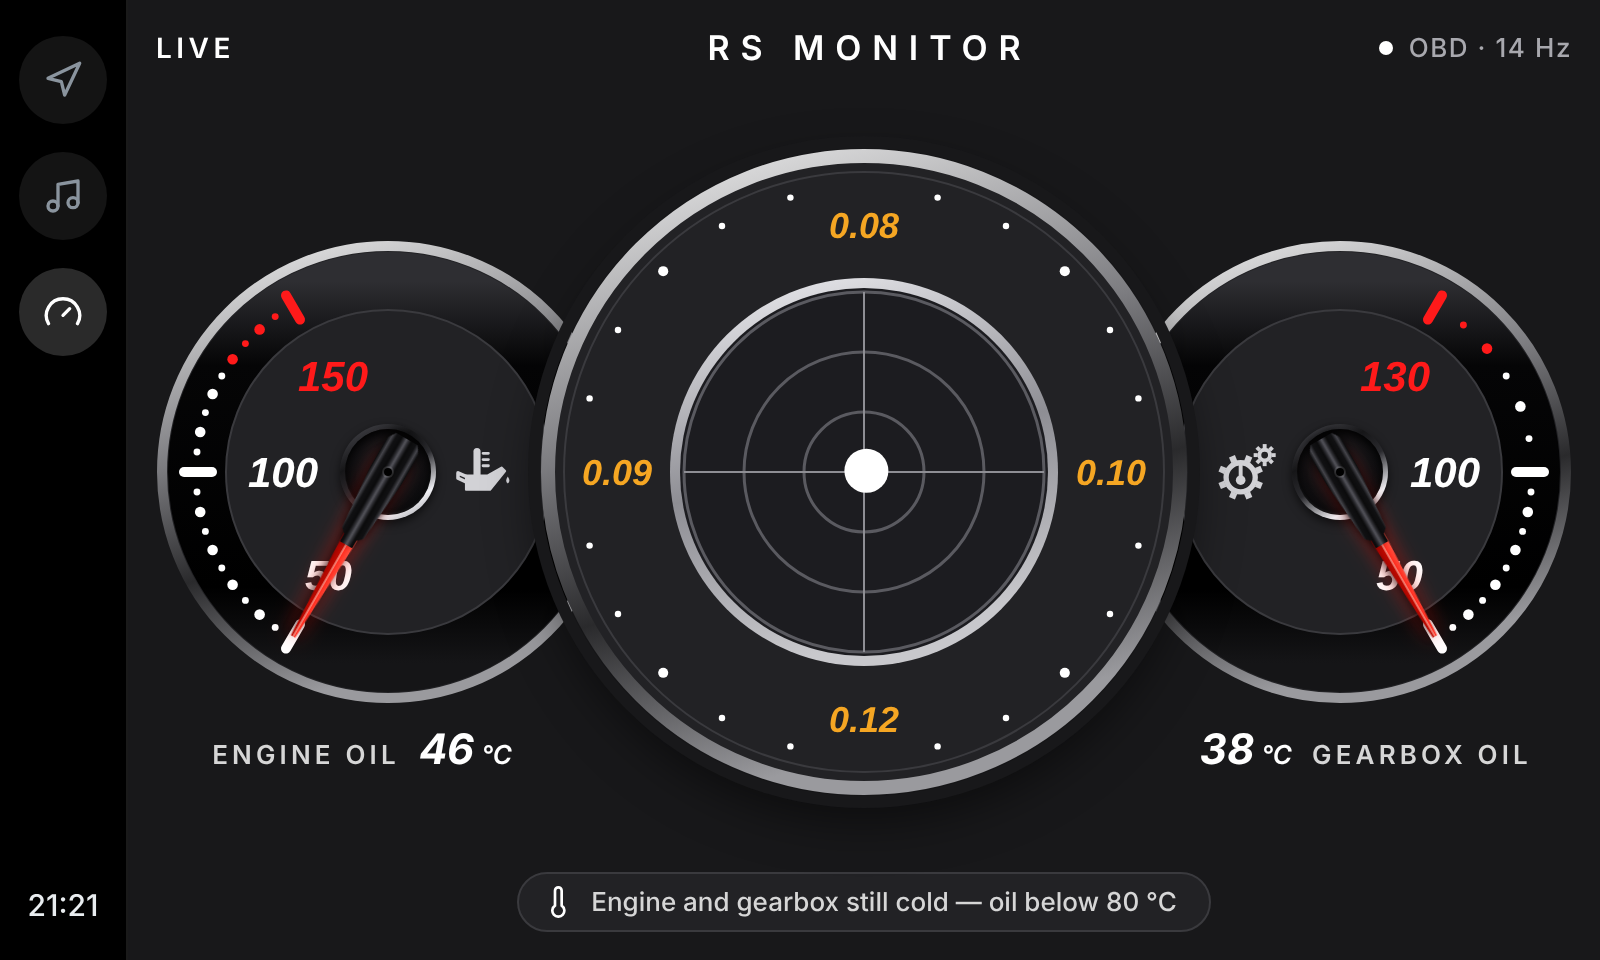
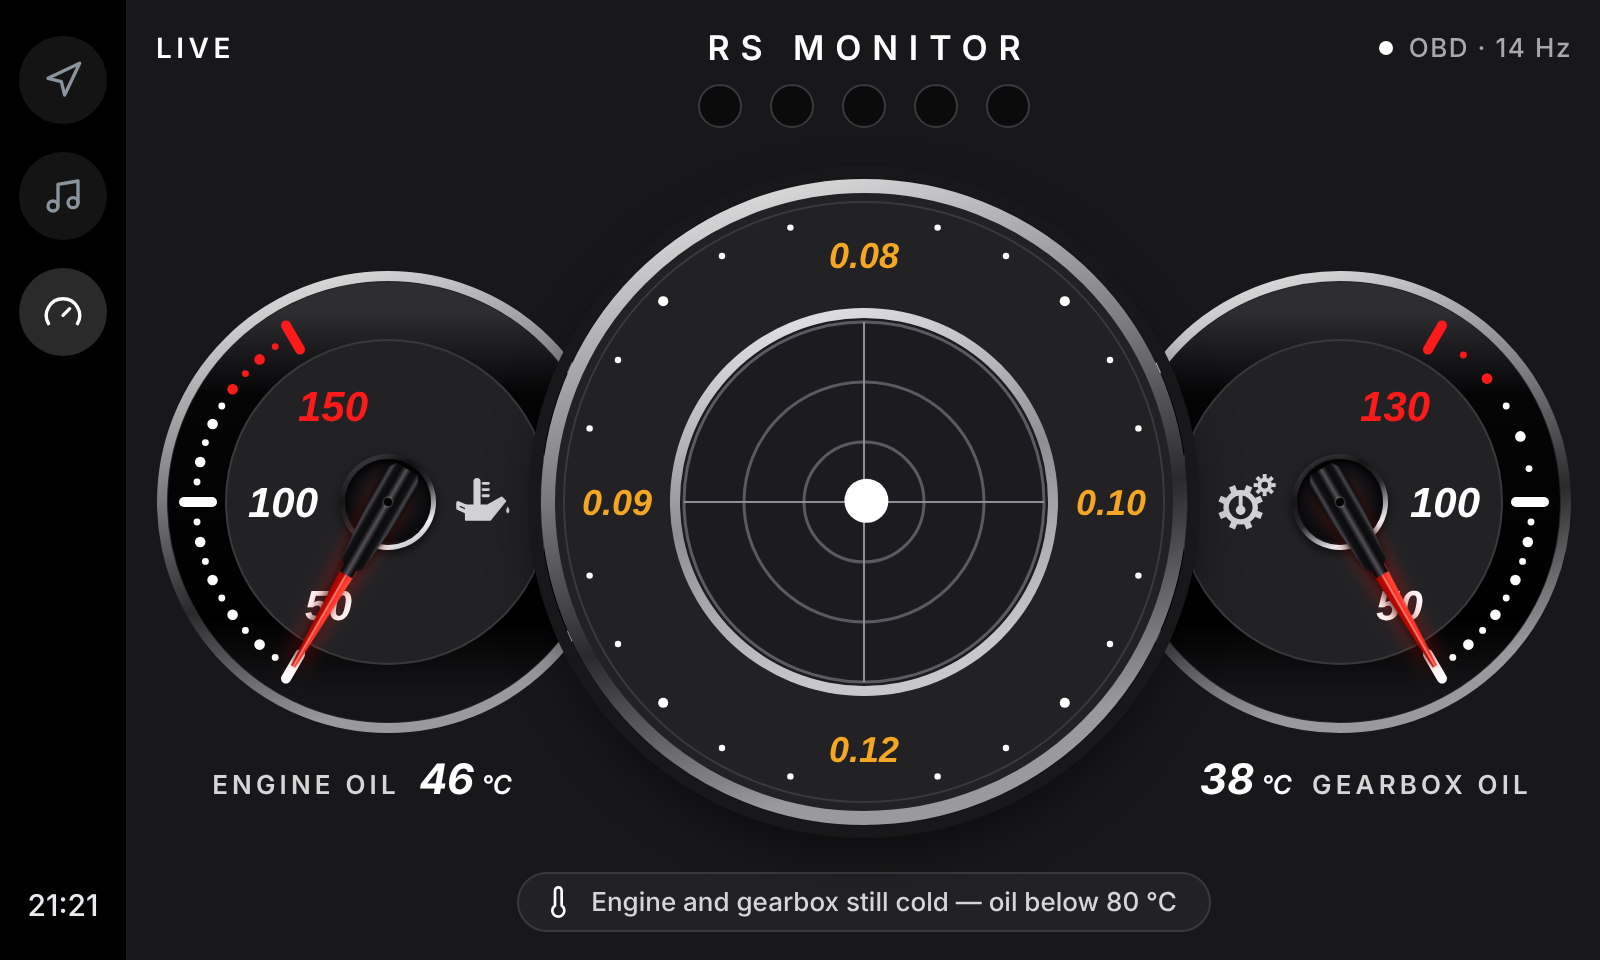
Add a five-stage shift light to the Android Auto screens
Green at 4,000 rpm, yellow at 5,000, 6,000 and 7,000, red at 8,000;
all five flash red from 8,200 rpm. The row sits under the title.
Each screen gains an rpm sample value: cold start 1,500, driving
6,300, hot 8,300. Preview renderer and README updated.

Claude-Session: https://claude.ai/code/session_01JRCqJLUzwoXWWnQcu1ek3X

Changed region(s): [[0.0938, 0.1562, 1.0, 0.875]]

diff --git a/design/Main.dc.html b/design/Main.dc.html
@@ -15,6 +15,8 @@ body{margin:0}
 a{color:#FFFFFF}a:hover{color:#D6D6D6}
 ::selection{background:#FF1A1A;color:#FFFFFF}
 button:focus-visible,a:focus-visible{outline:2px solid #FFFFFF;outline-offset:2px}
+@keyframes rs-shift{0%{opacity:1}50%{opacity:0.12}}
+@media (prefers-reduced-motion: reduce){span[style*="rs-shift"]{animation:none !important}}
 </style>
 </helmet>
 <div style="width: 800px; height: 480px; box-sizing: border-box; display: flex; background: #18181A; color: #FFFFFF; font-family: 'Saira', 'Inter', sans-serif; overflow: hidden">
@@ -40,6 +42,11 @@ button:focus-visible,a:focus-visible{outline:2px solid #FFFFFF;outline-offset:2p
 <span style="width: 7px; height: 7px; border-radius: 4px; background: #FFFFFF"></span>OBD · 14 Hz
 </div>
 </header>
+<div role="img" aria-label="Shift lights" style="height: 26px; flex-shrink: 0; display: flex; align-items: center; justify-content: center; gap: 14px">
+<sc-for list="{{shift}}" as="l" hint-placeholder-count="5">
+<span style="width: 22px; height: 22px; border-radius: 11px; box-sizing: border-box; background: {{l.fill}}; border: 1px solid {{l.edge}}; box-shadow: {{l.glow}}; animation: {{l.anim}}"></span>
+</sc-for>
+</div>
 <div style="flex: 1; display: flex; align-items: center; justify-content: center">
 <div style="display: flex; flex-direction: column; align-items: center; gap: 10px; width: 232px; height: 324px; padding-top: 46px; box-sizing: border-box; flex-shrink: 0;">
 <div style="position: relative; width: 232px; height: 232px; flex-shrink: 0">
@@ -178,17 +185,33 @@ button:focus-visible,a:focus-visible{outline:2px solid #FFFFFF;outline-offset:2p
 </main>
 </div>
 </x-dc>
-<script type="text/x-dc" data-dc-script data-props='{"oilTemp":{"editor":"range","min":40,"max":155,"step":1,"unit":"°C","default":104,"section":"Sample readings"},"gearTemp":{"editor":"range","min":40,"max":135,"step":1,"unit":"°C","default":88,"section":"Sample readings"},"gLat":{"editor":"range","min":-1.5,"max":1.5,"step":0.01,"default":0.62,"section":"Sample readings"},"gLon":{"editor":"range","min":-1.5,"max":1.5,"step":0.01,"default":-0.28,"section":"Sample readings"},"$preview":{"width":800,"height":480}}'>
+<script type="text/x-dc" data-dc-script data-props='{"rpm":{"editor":"range","min":800,"max":8600,"step":50,"unit":"rpm","default":6300,"section":"Sample readings"},"oilTemp":{"editor":"range","min":40,"max":155,"step":1,"unit":"°C","default":104,"section":"Sample readings"},"gearTemp":{"editor":"range","min":40,"max":135,"step":1,"unit":"°C","default":88,"section":"Sample readings"},"gLat":{"editor":"range","min":-1.5,"max":1.5,"step":0.01,"default":0.62,"section":"Sample readings"},"gLon":{"editor":"range","min":-1.5,"max":1.5,"step":0.01,"default":-0.28,"section":"Sample readings"},"$preview":{"width":800,"height":480}}'>
 class Component extends DCLogic {
   needle(v, lo, hi, red, side) {
     var c = Math.max(lo, Math.min(hi, v));
     var t = c <= 100 ? 150 - 60 * (c - lo) / (100 - lo) : 90 - 60 * (c - 100) / (hi - 100);
     return { angle: (side * t).toFixed(1), value: Math.round(v), color: v >= red ? '#FF1A1A' : '#FFFFFF' };
   }
+  shift(rpm) {
+    var on = [4000, 5000, 6000, 7000, 8000];
+    var col = ['#2FD158', '#FFD60A', '#FFD60A', '#FFD60A', '#FF1A1A'];
+    var flash = rpm >= 8200;
+    return on.map(function (at, i) {
+      var lit = flash || rpm >= at;
+      var c = flash ? '#FF1A1A' : col[i];
+      return {
+        fill: lit ? c : '#0B0B0C',
+        edge: lit ? c : '#3A3A3E',
+        glow: lit ? '0 0 10px 1px ' + c : 'none',
+        anim: flash ? 'rs-shift 0.25s steps(1, end) infinite' : 'none'
+      };
+    });
+  }
   renderVals() {
     var lat = this.props.gLat ?? 0.62;
     var lon = this.props.gLon ?? -0.28;
     return {
+      shift: this.shift(this.props.rpm ?? 6300),
       oil: this.needle(this.props.oilTemp ?? 104, 50, 150, 130, -1),
       gear: this.needle(this.props.gearTemp ?? 88, 50, 130, 120, 1),
       g: { x: (162.0 + lat * 60).toFixed(1), y: (162.0 - lon * 60).toFixed(1) }

diff --git a/design/Hot.dc.html b/design/Hot.dc.html
@@ -15,6 +15,8 @@ body{margin:0}
 a{color:#FFFFFF}a:hover{color:#D6D6D6}
 ::selection{background:#FF1A1A;color:#FFFFFF}
 button:focus-visible,a:focus-visible{outline:2px solid #FFFFFF;outline-offset:2px}
+@keyframes rs-shift{0%{opacity:1}50%{opacity:0.12}}
+@media (prefers-reduced-motion: reduce){span[style*="rs-shift"]{animation:none !important}}
 </style>
 </helmet>
 <div style="width: 800px; height: 480px; box-sizing: border-box; display: flex; background: #18181A; color: #FFFFFF; font-family: 'Saira', 'Inter', sans-serif; overflow: hidden">
@@ -40,6 +42,11 @@ button:focus-visible,a:focus-visible{outline:2px solid #FFFFFF;outline-offset:2p
 <span style="width: 7px; height: 7px; border-radius: 4px; background: #FFFFFF"></span>OBD · 14 Hz
 </div>
 </header>
+<div role="img" aria-label="Shift lights" style="height: 26px; flex-shrink: 0; display: flex; align-items: center; justify-content: center; gap: 14px">
+<sc-for list="{{shift}}" as="l" hint-placeholder-count="5">
+<span style="width: 22px; height: 22px; border-radius: 11px; box-sizing: border-box; background: {{l.fill}}; border: 1px solid {{l.edge}}; box-shadow: {{l.glow}}; animation: {{l.anim}}"></span>
+</sc-for>
+</div>
 <div style="flex: 1; display: flex; align-items: center; justify-content: center">
 <div style="display: flex; flex-direction: column; align-items: center; gap: 10px; width: 232px; height: 324px; padding-top: 46px; box-sizing: border-box; flex-shrink: 0;">
 <div style="position: relative; width: 232px; height: 232px; flex-shrink: 0">
@@ -181,17 +188,33 @@ Engine and gearbox oil hot — above 130 °C and 120 °C
 </main>
 </div>
 </x-dc>
-<script type="text/x-dc" data-dc-script data-props='{"oilTemp":{"editor":"range","min":40,"max":155,"step":1,"unit":"°C","default":141,"section":"Sample readings"},"gearTemp":{"editor":"range","min":40,"max":135,"step":1,"unit":"°C","default":126,"section":"Sample readings"},"gLat":{"editor":"range","min":-1.5,"max":1.5,"step":0.01,"default":-0.55,"section":"Sample readings"},"gLon":{"editor":"range","min":-1.5,"max":1.5,"step":0.01,"default":0.2,"section":"Sample readings"},"$preview":{"width":800,"height":480}}'>
+<script type="text/x-dc" data-dc-script data-props='{"rpm":{"editor":"range","min":800,"max":8600,"step":50,"unit":"rpm","default":8300,"section":"Sample readings"},"oilTemp":{"editor":"range","min":40,"max":155,"step":1,"unit":"°C","default":141,"section":"Sample readings"},"gearTemp":{"editor":"range","min":40,"max":135,"step":1,"unit":"°C","default":126,"section":"Sample readings"},"gLat":{"editor":"range","min":-1.5,"max":1.5,"step":0.01,"default":-0.55,"section":"Sample readings"},"gLon":{"editor":"range","min":-1.5,"max":1.5,"step":0.01,"default":0.2,"section":"Sample readings"},"$preview":{"width":800,"height":480}}'>
 class Component extends DCLogic {
   needle(v, lo, hi, red, side) {
     var c = Math.max(lo, Math.min(hi, v));
     var t = c <= 100 ? 150 - 60 * (c - lo) / (100 - lo) : 90 - 60 * (c - 100) / (hi - 100);
     return { angle: (side * t).toFixed(1), value: Math.round(v), color: v >= red ? '#FF1A1A' : '#FFFFFF' };
   }
+  shift(rpm) {
+    var on = [4000, 5000, 6000, 7000, 8000];
+    var col = ['#2FD158', '#FFD60A', '#FFD60A', '#FFD60A', '#FF1A1A'];
+    var flash = rpm >= 8200;
+    return on.map(function (at, i) {
+      var lit = flash || rpm >= at;
+      var c = flash ? '#FF1A1A' : col[i];
+      return {
+        fill: lit ? c : '#0B0B0C',
+        edge: lit ? c : '#3A3A3E',
+        glow: lit ? '0 0 10px 1px ' + c : 'none',
+        anim: flash ? 'rs-shift 0.25s steps(1, end) infinite' : 'none'
+      };
+    });
+  }
   renderVals() {
     var lat = this.props.gLat ?? -0.55;
     var lon = this.props.gLon ?? 0.2;
     return {
+      shift: this.shift(this.props.rpm ?? 8300),
       oil: this.needle(this.props.oilTemp ?? 141, 50, 150, 130, -1),
       gear: this.needle(this.props.gearTemp ?? 126, 50, 130, 120, 1),
       g: { x: (162.0 + lat * 60).toFixed(1), y: (162.0 - lon * 60).toFixed(1) }

diff --git a/design/Warmup.dc.html b/design/Warmup.dc.html
@@ -15,6 +15,8 @@ body{margin:0}
 a{color:#FFFFFF}a:hover{color:#D6D6D6}
 ::selection{background:#FF1A1A;color:#FFFFFF}
 button:focus-visible,a:focus-visible{outline:2px solid #FFFFFF;outline-offset:2px}
+@keyframes rs-shift{0%{opacity:1}50%{opacity:0.12}}
+@media (prefers-reduced-motion: reduce){span[style*="rs-shift"]{animation:none !important}}
 </style>
 </helmet>
 <div style="width: 800px; height: 480px; box-sizing: border-box; display: flex; background: #18181A; color: #FFFFFF; font-family: 'Saira', 'Inter', sans-serif; overflow: hidden">
@@ -40,6 +42,11 @@ button:focus-visible,a:focus-visible{outline:2px solid #FFFFFF;outline-offset:2p
 <span style="width: 7px; height: 7px; border-radius: 4px; background: #FFFFFF"></span>OBD · 14 Hz
 </div>
 </header>
+<div role="img" aria-label="Shift lights" style="height: 26px; flex-shrink: 0; display: flex; align-items: center; justify-content: center; gap: 14px">
+<sc-for list="{{shift}}" as="l" hint-placeholder-count="5">
+<span style="width: 22px; height: 22px; border-radius: 11px; box-sizing: border-box; background: {{l.fill}}; border: 1px solid {{l.edge}}; box-shadow: {{l.glow}}; animation: {{l.anim}}"></span>
+</sc-for>
+</div>
 <div style="flex: 1; display: flex; align-items: center; justify-content: center">
 <div style="display: flex; flex-direction: column; align-items: center; gap: 10px; width: 232px; height: 324px; padding-top: 46px; box-sizing: border-box; flex-shrink: 0;">
 <div style="position: relative; width: 232px; height: 232px; flex-shrink: 0">
@@ -181,17 +188,33 @@ Engine and gearbox still cold — oil below 80 °C
 </main>
 </div>
 </x-dc>
-<script type="text/x-dc" data-dc-script data-props='{"oilTemp":{"editor":"range","min":40,"max":155,"step":1,"unit":"°C","default":46,"section":"Sample readings"},"gearTemp":{"editor":"range","min":40,"max":135,"step":1,"unit":"°C","default":38,"section":"Sample readings"},"gLat":{"editor":"range","min":-1.5,"max":1.5,"step":0.01,"default":0.02,"section":"Sample readings"},"gLon":{"editor":"range","min":-1.5,"max":1.5,"step":0.01,"default":0.01,"section":"Sample readings"},"$preview":{"width":800,"height":480}}'>
+<script type="text/x-dc" data-dc-script data-props='{"rpm":{"editor":"range","min":800,"max":8600,"step":50,"unit":"rpm","default":1500,"section":"Sample readings"},"oilTemp":{"editor":"range","min":40,"max":155,"step":1,"unit":"°C","default":46,"section":"Sample readings"},"gearTemp":{"editor":"range","min":40,"max":135,"step":1,"unit":"°C","default":38,"section":"Sample readings"},"gLat":{"editor":"range","min":-1.5,"max":1.5,"step":0.01,"default":0.02,"section":"Sample readings"},"gLon":{"editor":"range","min":-1.5,"max":1.5,"step":0.01,"default":0.01,"section":"Sample readings"},"$preview":{"width":800,"height":480}}'>
 class Component extends DCLogic {
   needle(v, lo, hi, red, side) {
     var c = Math.max(lo, Math.min(hi, v));
     var t = c <= 100 ? 150 - 60 * (c - lo) / (100 - lo) : 90 - 60 * (c - 100) / (hi - 100);
     return { angle: (side * t).toFixed(1), value: Math.round(v), color: v >= red ? '#FF1A1A' : '#FFFFFF' };
   }
+  shift(rpm) {
+    var on = [4000, 5000, 6000, 7000, 8000];
+    var col = ['#2FD158', '#FFD60A', '#FFD60A', '#FFD60A', '#FF1A1A'];
+    var flash = rpm >= 8200;
+    return on.map(function (at, i) {
+      var lit = flash || rpm >= at;
+      var c = flash ? '#FF1A1A' : col[i];
+      return {
+        fill: lit ? c : '#0B0B0C',
+        edge: lit ? c : '#3A3A3E',
+        glow: lit ? '0 0 10px 1px ' + c : 'none',
+        anim: flash ? 'rs-shift 0.25s steps(1, end) infinite' : 'none'
+      };
+    });
+  }
   renderVals() {
     var lat = this.props.gLat ?? 0.02;
     var lon = this.props.gLon ?? 0.01;
     return {
+      shift: this.shift(this.props.rpm ?? 1500),
       oil: this.needle(this.props.oilTemp ?? 46, 50, 150, 130, -1),
       gear: this.needle(this.props.gearTemp ?? 38, 50, 130, 120, 1),
       g: { x: (162.0 + lat * 60).toFixed(1), y: (162.0 - lon * 60).toFixed(1) }

diff --git a/tools/gen_gauges.py b/tools/gen_gauges.py
@@ -18,6 +18,12 @@ INK3 = "#A8A8AE"    # secondary text
 HOT = "#FF1A1A"     # hot zone, hot readout, G trace
 PEAK = "#F5A623"    # G-meter peak numbers
 ICON = "#D2D2D6"
+SOCKET = "#0B0B0C"  # unlit shift light
+SHIFT_GREEN = "#2FD158"
+SHIFT_YELLOW = "#FFD60A"
+# shift lights: rpm at which each of the five comes on, and where all five flash red
+SHIFT_ON = [4000, 5000, 6000, 7000, 8000]
+SHIFT_FLASH = 8200
 F = "'Saira', 'Inter', sans-serif"
 # one numeral voice for scale numbers, readouts and G peaks
 NUM_SVG = 'font-family="Saira, sans-serif" font-weight="700" font-style="italic" style="font-stretch: 112.5%"'
@@ -225,7 +231,7 @@ def notice_pill(kind):
 </div>'''
 
 
-def page(title, oil, gear, lat, lon, peaks, state=None):
+def page(title, oil, gear, lat, lon, peaks, rpm, state=None):
     notice = notice_pill(state)
     return f'''<!doctype html>
 <html lang="en">
@@ -244,6 +250,8 @@ body{{margin:0}}
 a{{color:{INK}}}a:hover{{color:{INK2}}}
 ::selection{{background:{HOT};color:{INK}}}
 button:focus-visible,a:focus-visible{{outline:2px solid {INK};outline-offset:2px}}
+@keyframes rs-shift{{0%{{opacity:1}}50%{{opacity:0.12}}}}
+@media (prefers-reduced-motion: reduce){{span[style*="rs-shift"]{{animation:none !important}}}}
 </style>
 </helmet>
 <div style="width: 800px; height: 480px; box-sizing: border-box; display: flex; background: {BG}; color: {INK}; font-family: {F}; overflow: hidden">
@@ -256,6 +264,11 @@ button:focus-visible,a:focus-visible{{outline:2px solid {INK};outline-offset:2px
 <span style="width: 7px; height: 7px; border-radius: 4px; background: {INK}"></span>OBD · 14 Hz
 </div>
 </header>
+<div role="img" aria-label="Shift lights" style="height: 26px; flex-shrink: 0; display: flex; align-items: center; justify-content: center; gap: 14px">
+<sc-for list="{{{{shift}}}}" as="l" hint-placeholder-count="5">
+<span style="width: 22px; height: 22px; border-radius: 11px; box-sizing: border-box; background: {{{{l.fill}}}}; border: 1px solid {{{{l.edge}}}}; box-shadow: {{{{l.glow}}}}; animation: {{{{l.anim}}}}"></span>
+</sc-for>
+</div>
 <div style="flex: 1; display: flex; align-items: center; justify-content: center">
 {side_block('oil', 'ENGINE OIL', 50, 150, [50,100,150], 130, -1)}
 {gmeter(peaks)}
@@ -265,17 +278,33 @@ button:focus-visible,a:focus-visible{{outline:2px solid {INK};outline-offset:2px
 </main>
 </div>
 </x-dc>
-<script type="text/x-dc" data-dc-script data-props='{{"oilTemp":{{"editor":"range","min":40,"max":155,"step":1,"unit":"°C","default":{oil},"section":"Sample readings"}},"gearTemp":{{"editor":"range","min":40,"max":135,"step":1,"unit":"°C","default":{gear},"section":"Sample readings"}},"gLat":{{"editor":"range","min":-1.5,"max":1.5,"step":0.01,"default":{lat},"section":"Sample readings"}},"gLon":{{"editor":"range","min":-1.5,"max":1.5,"step":0.01,"default":{lon},"section":"Sample readings"}},"$preview":{{"width":800,"height":480}}}}'>
+<script type="text/x-dc" data-dc-script data-props='{{"rpm":{{"editor":"range","min":800,"max":8600,"step":50,"unit":"rpm","default":{rpm},"section":"Sample readings"}},"oilTemp":{{"editor":"range","min":40,"max":155,"step":1,"unit":"°C","default":{oil},"section":"Sample readings"}},"gearTemp":{{"editor":"range","min":40,"max":135,"step":1,"unit":"°C","default":{gear},"section":"Sample readings"}},"gLat":{{"editor":"range","min":-1.5,"max":1.5,"step":0.01,"default":{lat},"section":"Sample readings"}},"gLon":{{"editor":"range","min":-1.5,"max":1.5,"step":0.01,"default":{lon},"section":"Sample readings"}},"$preview":{{"width":800,"height":480}}}}'>
 class Component extends DCLogic {{
   needle(v, lo, hi, red, side) {{
     var c = Math.max(lo, Math.min(hi, v));
     var t = c <= 100 ? 150 - 60 * (c - lo) / (100 - lo) : 90 - 60 * (c - 100) / (hi - 100);
     return {{ angle: (side * t).toFixed(1), value: Math.round(v), color: v >= red ? '{HOT}' : '{INK}' }};
   }}
+  shift(rpm) {{
+    var on = {SHIFT_ON};
+    var col = ['{SHIFT_GREEN}', '{SHIFT_YELLOW}', '{SHIFT_YELLOW}', '{SHIFT_YELLOW}', '{HOT}'];
+    var flash = rpm >= {SHIFT_FLASH};
+    return on.map(function (at, i) {{
+      var lit = flash || rpm >= at;
+      var c = flash ? '{HOT}' : col[i];
+      return {{
+        fill: lit ? c : '{SOCKET}',
+        edge: lit ? c : '{LINE}',
+        glow: lit ? '0 0 10px 1px ' + c : 'none',
+        anim: flash ? 'rs-shift 0.25s steps(1, end) infinite' : 'none'
+      }};
+    }});
+  }}
   renderVals() {{
     var lat = this.props.gLat ?? {lat};
     var lon = this.props.gLon ?? {lon};
     return {{
+      shift: this.shift(this.props.rpm ?? {rpm}),
       oil: this.needle(this.props.oilTemp ?? {oil}, 50, 150, 130, -1),
       gear: this.needle(this.props.gearTemp ?? {gear}, 50, 130, 120, 1),
       g: {{ x: ({GC} + lat * {GS}).toFixed(1), y: ({GC} - lon * {GS}).toFixed(1) }}
@@ -288,6 +317,6 @@ class Component extends DCLogic {{
 '''
 
 
-open(f'{OUT}/Main.dc.html', 'w').write(page('RS Monitor — driving', 104, 88, 0.62, -0.28, (0.36, 0.88, 0.95, 0.82)))
-open(f'{OUT}/Warmup.dc.html', 'w').write(page('RS Monitor — cold start', 46, 38, 0.02, 0.01, (0.08, 0.10, 0.12, 0.09), 'cold'))
-open(f'{OUT}/Hot.dc.html', 'w').write(page('RS Monitor — hot', 141, 126, -0.55, 0.20, (0.36, 0.88, 0.95, 0.82), 'hot'))
+open(f'{OUT}/Main.dc.html', 'w').write(page('RS Monitor — driving', 104, 88, 0.62, -0.28, (0.36, 0.88, 0.95, 0.82), 6300))
+open(f'{OUT}/Warmup.dc.html', 'w').write(page('RS Monitor — cold start', 46, 38, 0.02, 0.01, (0.08, 0.10, 0.12, 0.09), 1500, 'cold'))
+open(f'{OUT}/Hot.dc.html', 'w').write(page('RS Monitor — hot', 141, 126, -0.55, 0.20, (0.36, 0.88, 0.95, 0.82), 8300, 'hot'))

diff --git a/tools/render_preview.py b/tools/render_preview.py
@@ -11,6 +11,11 @@ local font and differs from the canvas (which uses Saira).
 import json, os, re, subprocess, sys
 
 HOT, INK = '#FF1A1A', '#FFFFFF'
+# keep in step with gen_gauges.py
+SHIFT_ON = [4000, 5000, 6000, 7000, 8000]
+SHIFT_FLASH = 8200
+SHIFT_COL = ['#2FD158', '#FFD60A', '#FFD60A', '#FFD60A', HOT]
+SOCKET, LINE = '#0B0B0C', '#3A3A3E'
 GC, GS = 162.0, 60.0   # G-meter centre and px per g; keep in step with gen_gauges.py
 
 
@@ -37,6 +42,17 @@ def needle(v, lo, hi, red, side):
     return {'angle': f'{side*t:.1f}', 'value': str(round(v)), 'color': HOT if v >= red else INK}
 
 
+def shift(rpm):
+    """Same rule as the screens, but a flash is drawn as all five lit (a still image cannot flash)."""
+    flash = rpm >= SHIFT_FLASH
+    out = []
+    for at, col in zip(SHIFT_ON, SHIFT_COL):
+        lit = flash or rpm >= at
+        c = HOT if flash else col
+        out.append({'fill': c if lit else SOCKET, 'edge': c if lit else LINE, 'glow': f'0 0 10px 1px {c}' if lit else 'none', 'anim': 'none'})
+    return out
+
+
 def gauges(src, out):
     html = open(src).read()
     props = json.loads(re.search(r"data-props='(.*?)'", html, flags=re.S).group(1))
@@ -47,6 +63,9 @@ def gauges(src, out):
             vals[f'{key}.{k}'] = v
     vals['g.x'] = f"{GC + d('gLat') * GS:.1f}"
     vals['g.y'] = f"{GC - d('gLon') * GS:.1f}"
+    lights = shift(d('rpm'))
+    html = re.sub(r'<sc-for list="\{\{shift\}\}"[^>]*>(.*?)</sc-for>',
+                  lambda m: ''.join(re.sub(r'\{\{l\.(\w+)\}\}', lambda k: l[k.group(1)], m.group(1)) for l in lights), html, flags=re.S)
     html = re.sub(r'\{\{\s*([\w.]+)\s*\}\}', lambda m: vals.get(m.group(1), m.group(0)), html)
     shot(html, out, 800, 480)
 

diff --git a/README.md b/README.md
@@ -6,6 +6,7 @@ It shows three things on the car screen:
 - Engine oil temperature
 - Gearbox (S tronic) oil temperature
 - A G-meter with a peak trace
+- A five-stage shift light
 
 Status: **design only.** No Android code has been written yet. The design in this repo is the
 one to build from.
@@ -58,6 +59,7 @@ python3 tools/render_preview.py design design/preview
 - Each oil gauge has its name and precise temperature on one line underneath: reading to the
   right of "ENGINE OIL", to the left of "GEARBOX OIL". The reading has a fixed width so the
   label does not move as digits change.
+- A row of five shift lights sits under the title, above the G-meter.
 - A slot at the bottom is reserved for notices, so the gauges do not move when one appears.
 
 **States**
@@ -67,6 +69,23 @@ python3 tools/render_preview.py design design/preview
 - **Hot:** the reading turns red once the oil is in its hot zone, and a filled red warning
   notice appears: "Engine and gearbox oil hot — above 130 °C and 120 °C". It is deliberately
   bolder than the cold notice. The wording for only one oil being hot is not written yet.
+
+**Shift light**
+
+| Light | Colour | Comes on at |
+|---|---|---|
+| 1 | Green | 4,000 rpm |
+| 2 | Yellow | 5,000 rpm |
+| 3 | Yellow | 6,000 rpm |
+| 4 | Yellow | 7,000 rpm |
+| 5 | Red | 8,000 rpm |
+
+- From 8,200 rpm all five flash red: upshift.
+- Lights stay on once passed, so they fill from left to right. Unlit lights show as dark sockets.
+- The flash is four times a second and stops if the device asks for reduced motion.
+- The sample screens show the three cases: cold start at 1,500 rpm (all off), driving at
+  6,300 rpm (green and two yellow), hot at 8,300 rpm (flashing; the preview image shows all
+  five lit, since a still image cannot flash).
 
 **Scales**
 
@@ -101,6 +120,7 @@ python3 tools/render_preview.py design design/preview
 | Hot zone, hot reading, G trace | `#FF1A1A` |
 | Hot notice fill | `#C8101A` |
 | G-meter peak numbers, "waiting" in the console | `#F5A623` |
+| Shift lights | green `#2FD158`, yellow `#FFD60A`, red `#FF1A1A`, unlit `#0B0B0C` |
 
 Saira throughout; numbers are bold italic at 112.5% width. The console log uses JetBrains Mono.
 
@@ -109,6 +129,8 @@ Saira throughout; numbers are bold italic at 112.5% width. The console log uses 
 - **Android Auto screen:** Google's Car App Library, sideloaded (not a Play Store app).
 - **OBD link:** Kotlin layer talking to an ELM327-type adapter over Bluetooth, sending
   requests to the engine unit (7E0) and gearbox unit (7E1).
+- **Shift light:** from engine speed, which is a standard OBD2 value (PID 0C), so it needs no
+  Audi-specific data ID. It has to be polled far more often than the two temperatures.
 - **G-meter:** from the phone's motion sensor, with a calibrate step for how the phone is
   mounted.
 - **Phone app:** adapter pairing, plus the discovery console for sending commands and checking
@@ -126,3 +148,7 @@ Auto showing live RPM.
    They have to be found on the car and checked against VCDS.
 3. **Which Bluetooth adapter** will be used (classic Bluetooth or Bluetooth Low Energy).
 4. **Hot notice wording when only one oil is hot** (engine only, gearbox only).
+5. **How far the shift light lags the engine.** Each reading goes adapter → Bluetooth → phone →
+   Android Auto → car screen. In a low gear the revs can climb several hundred rpm in that
+   time, so the lights may need to come on earlier than the figures above. This has to be
+   measured on the car.
